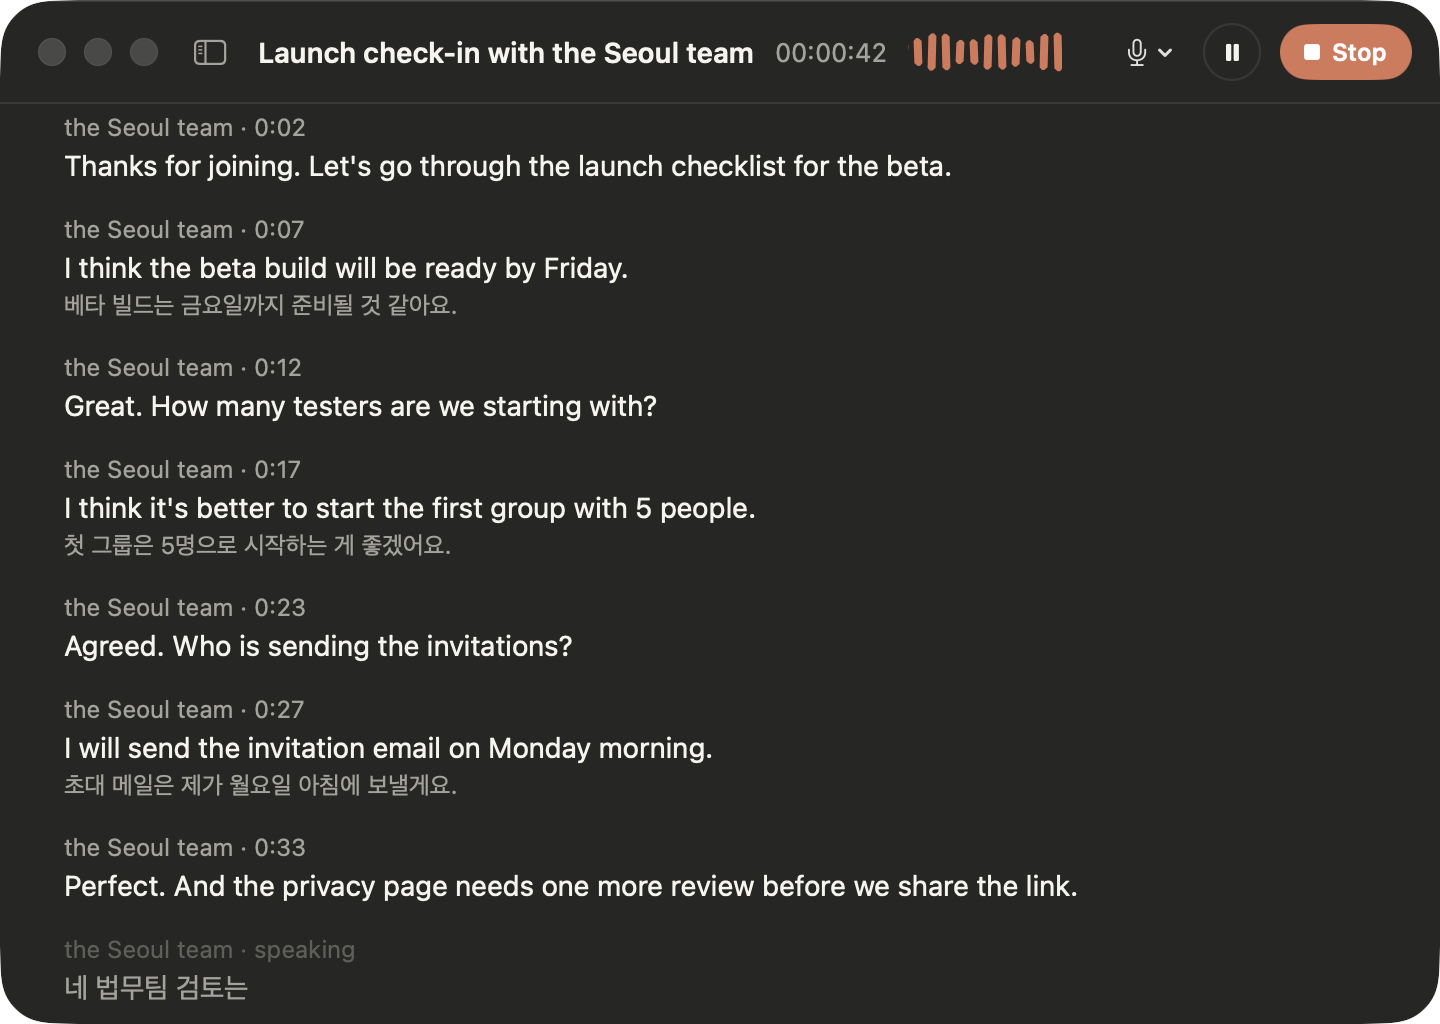
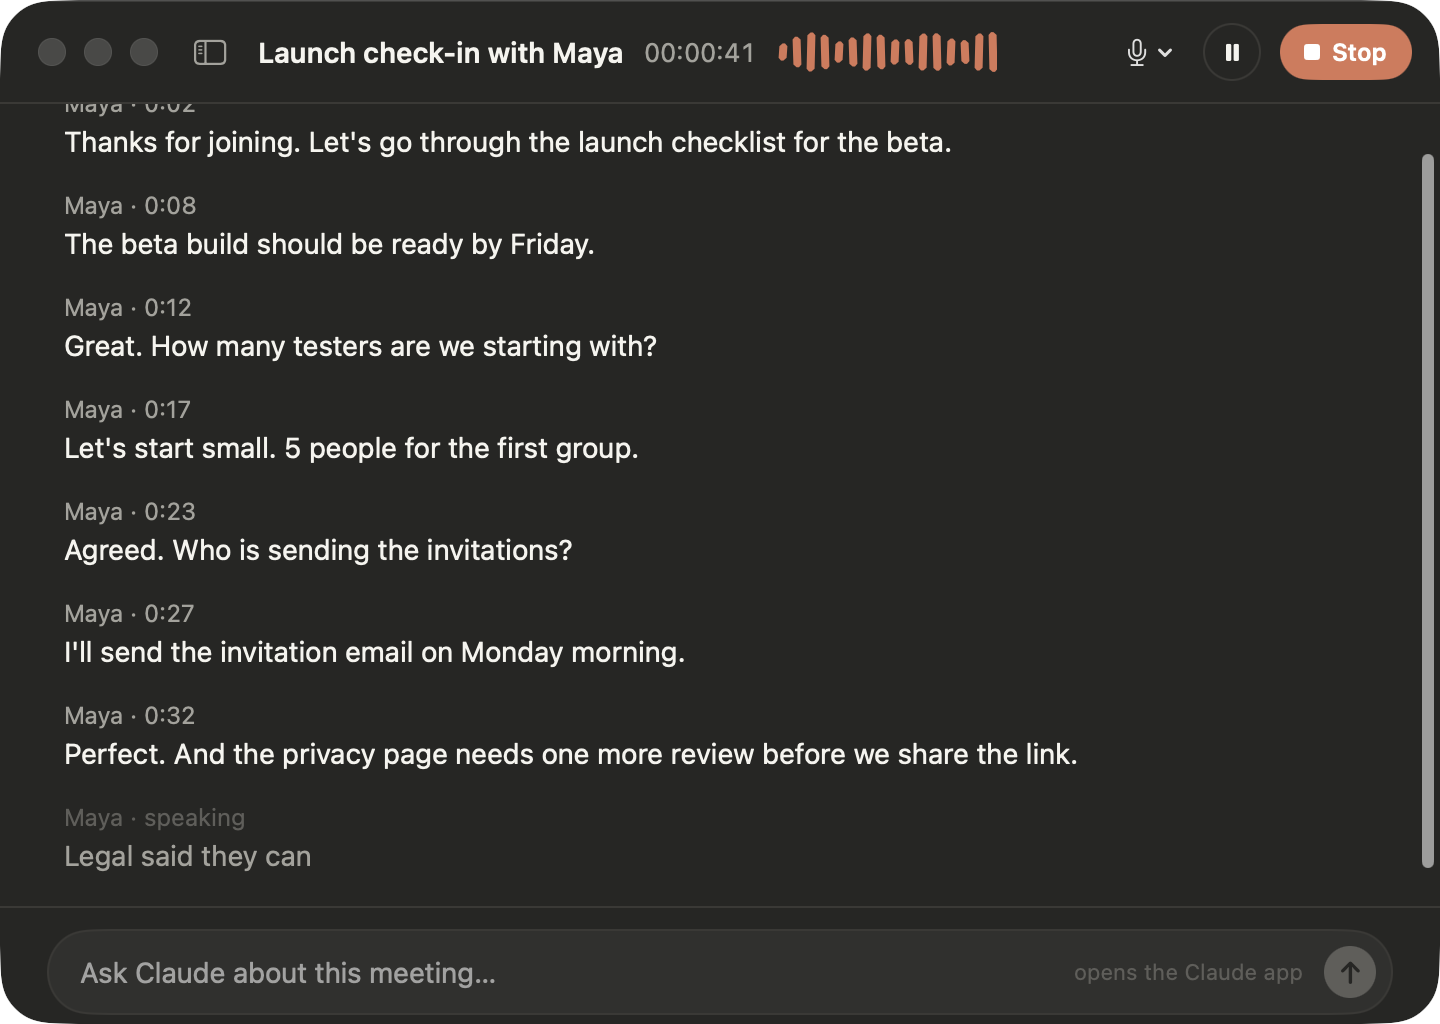
Download page: Version 0.4.5, 3.5 MB.

diff --git a/index.html b/index.html
@@ -177,7 +177,7 @@ footer { border-top: 1px solid var(--line); padding-block: 22px 40px; font-size:
     <p class="sub">Audie records the call on your Mac and turns it into text as people speak. Claude can read every word.</p>
     <div class="cta">
       <a class="button" href="https://github.com/jungdjh/audie-updates/releases/latest/download/Audie.dmg">Download for Mac</a>
-      <small>Version 0.4.4, 3.5 MB. Free while in testing.</small>
+      <small>Version 0.4.5, 3.5 MB. Free while in testing.</small>
     </div>
   </section>
 
@@ -188,7 +188,7 @@ footer { border-top: 1px solid var(--line); padding-block: 22px 40px; font-size:
   </div>
 
   <div class="wrap shot-wrap">
-    <img class="shot" id="shot" src="window.png" width="1440" height="1024" alt="Audie recording a meeting. Finished lines are white; the last line, still being spoken, is gray.">
+    <img class="shot" id="shot" src="window.png" width="1440" height="1024" alt="Audie recording a meeting. Finished lines are white; the last line, still being spoken, is gray. An Ask Claude box sits under the transcript.">
     <p class="caption">A real recording. Gray words are still being spoken. They turn white when the sentence ends.</p>
   </div>
 
@@ -206,8 +206,8 @@ footer { border-top: 1px solid var(--line); padding-block: 22px 40px; font-size:
     <h2 class="rise">Words appear as they're said.</h2>
     <p class="sub rise">You see the first words about two seconds after someone starts talking. When they finish the sentence, it settles into the transcript.</p>
     <div class="trans" id="trans">
-      <div class="tl"><span class="who">the Seoul team · 0:12</span><span class="en" data-type>Great. How many testers are we starting with?</span></div>
-      <div class="tl"><span class="who">the Seoul team · 0:33</span><span class="en" data-type>Perfect. And the privacy page needs one more review before we share the link.</span></div>
+      <div class="tl"><span class="who">Maya · 0:12</span><span class="en" data-type>Great. How many testers are we starting with?</span></div>
+      <div class="tl"><span class="who">Maya · 0:32</span><span class="en" data-type>Perfect. And the privacy page needs one more review before we share the link.</span></div>
     </div>
   </section>
 
@@ -219,12 +219,12 @@ footer { border-top: 1px solid var(--line); padding-block: 22px 40px; font-size:
 
   <section class="band alt">
     <h2 class="rise">Ask Claude what was said.</h2>
-    <p class="sub rise">Claude can start a recording and read the transcript, even while the meeting is still going.</p>
+    <p class="sub rise">Type a question under the transcript and Audie hands the meeting to Claude, on the website or in the Claude app. Even while the meeting is still going.</p>
     <div class="chat" id="chat">
       <div class="msg you rise">Who's doing what after this call?</div>
-      <div class="msg claude rise"><span class="from">Claude</span><span data-type>The Seoul team has the beta build ready by Friday and sends the tester invitations Monday morning. Legal reviews the privacy page by Wednesday. You're sending a summary after the call.</span></div>
+      <div class="msg claude rise"><span class="from">Claude</span><span data-type>Maya has the beta build ready by Friday and sends the tester invitations Monday morning. Legal finishes reviewing the privacy page by Wednesday. You're sending a summary after the call.</span></div>
     </div>
-    <p class="caption rise">Works with Claude Code in one click. Without it, Open in Claude copies the transcript for you.</p>
+    <p class="caption rise">Works with Claude on the web, the Claude app, and Claude Code. With Claude Code, Claude can also start recordings and follow along by itself.</p>
   </section>
 
   <section class="band">
@@ -239,9 +239,9 @@ footer { border-top: 1px solid var(--line); padding-block: 22px 40px; font-size:
         <li class="rise"><div><b>Download and drag to Applications.</b><span>Signed by the developer and checked by Apple.</span></div></li>
         <li class="rise"><div><b>Allow the two permissions.</b><span>A short guide walks you through System Audio Recording and the Microphone.</span></div></li>
         <li class="rise"><div><b>Let the speech model download.</b><span>1.5 GB, once. You can record while it downloads.</span></div></li>
-        <li class="rise"><div><b>Connect Claude, if you like.</b><span>Optional. After this, Audie keeps itself up to date.</span></div></li>
+        <li class="rise"><div><b>Pick the Claude you use.</b><span>The website, the Claude app, or Claude Code. After this, Audie keeps itself up to date.</span></div></li>
       </ol>
-      <img class="welcome rise" src="welcome.jpg" width="560" height="540" alt="Audie's welcome guide with its four steps.">
+      <img class="welcome rise" src="welcome.png" width="1120" height="1124" alt="Audie's welcome guide with its four steps.">
     </div>
   </section>
 
@@ -250,7 +250,6 @@ footer { border-top: 1px solid var(--line); padding-block: 22px 40px; font-size:
     <div class="faq">
       <details><summary>Which Macs does it run on?</summary><p>Macs with Apple silicon (M1 or later) on macOS 14.2 or later, with about 2 GB free.</p></details>
       <details><summary>Do I need to tell people I'm recording?</summary><p>Yes. Many places require everyone's consent, and your workplace may have its own rules. Audie reminds you every time you start.</p></details>
-      <details><summary>Which languages does it understand?</summary><p>English, Korean, and a mix of the two in the same meeting.</p></details>
       <details><summary>What does it cost?</summary><p>Nothing. Audie is free while it's tested with a small group.</p></details>
       <details><summary>My work network blocked the speech model.</summary><p>Email David for the model file, then use Settings › Speech › Import.</p></details>
     </div>
@@ -303,17 +302,17 @@ footer { border-top: 1px solid var(--line); padding-block: 22px 40px; font-size:
   // The ribbon: lines from the real demo transcript stream left out of the pill.
   const lines = [
     ["Thanks for joining. Let's go through the launch checklist for the beta.", ""],
-    ["I think the beta build will be ready by Friday.", ""],
+    ["The beta build should be ready by Friday.", ""],
     ["Great. How many testers are we starting with?", ""],
-    ["I think it's better to start the first group with 5 people.", ""],
+    ["Let's start small. 5 people for the first group.", ""],
     ["Agreed. Who is sending the invitations?", ""],
-    ["I will send the invitation email on Monday morning.", ""],
+    ["I'll send the invitation email on Monday morning.", ""],
     ["Perfect. And the privacy page needs one more review before we share the link.", ""],
-    ["Legal can finish the review by Wednesday.", ""],
+    ["Legal said they can finish the review by Wednesday.", ""],
     ["Then we're set. I'll send a summary after the call.", ""],
   ];
   const stream = document.getElementById("stream");
-  const fill = () => lines.forEach(([s, k]) => { const e = document.createElement("span"); e.textContent = s; if (k === "ko" && /[가-힣]/.test(s)) e.className = "ko"; stream.appendChild(e); });
+  const fill = () => lines.forEach(([s, k]) => { const e = document.createElement("span"); e.textContent = s; stream.appendChild(e); });
   fill(); fill();   // twice, so the loop is seamless
   let x = 0, half = 0;
   const measure = () => { half = stream.scrollWidth / 2; };
